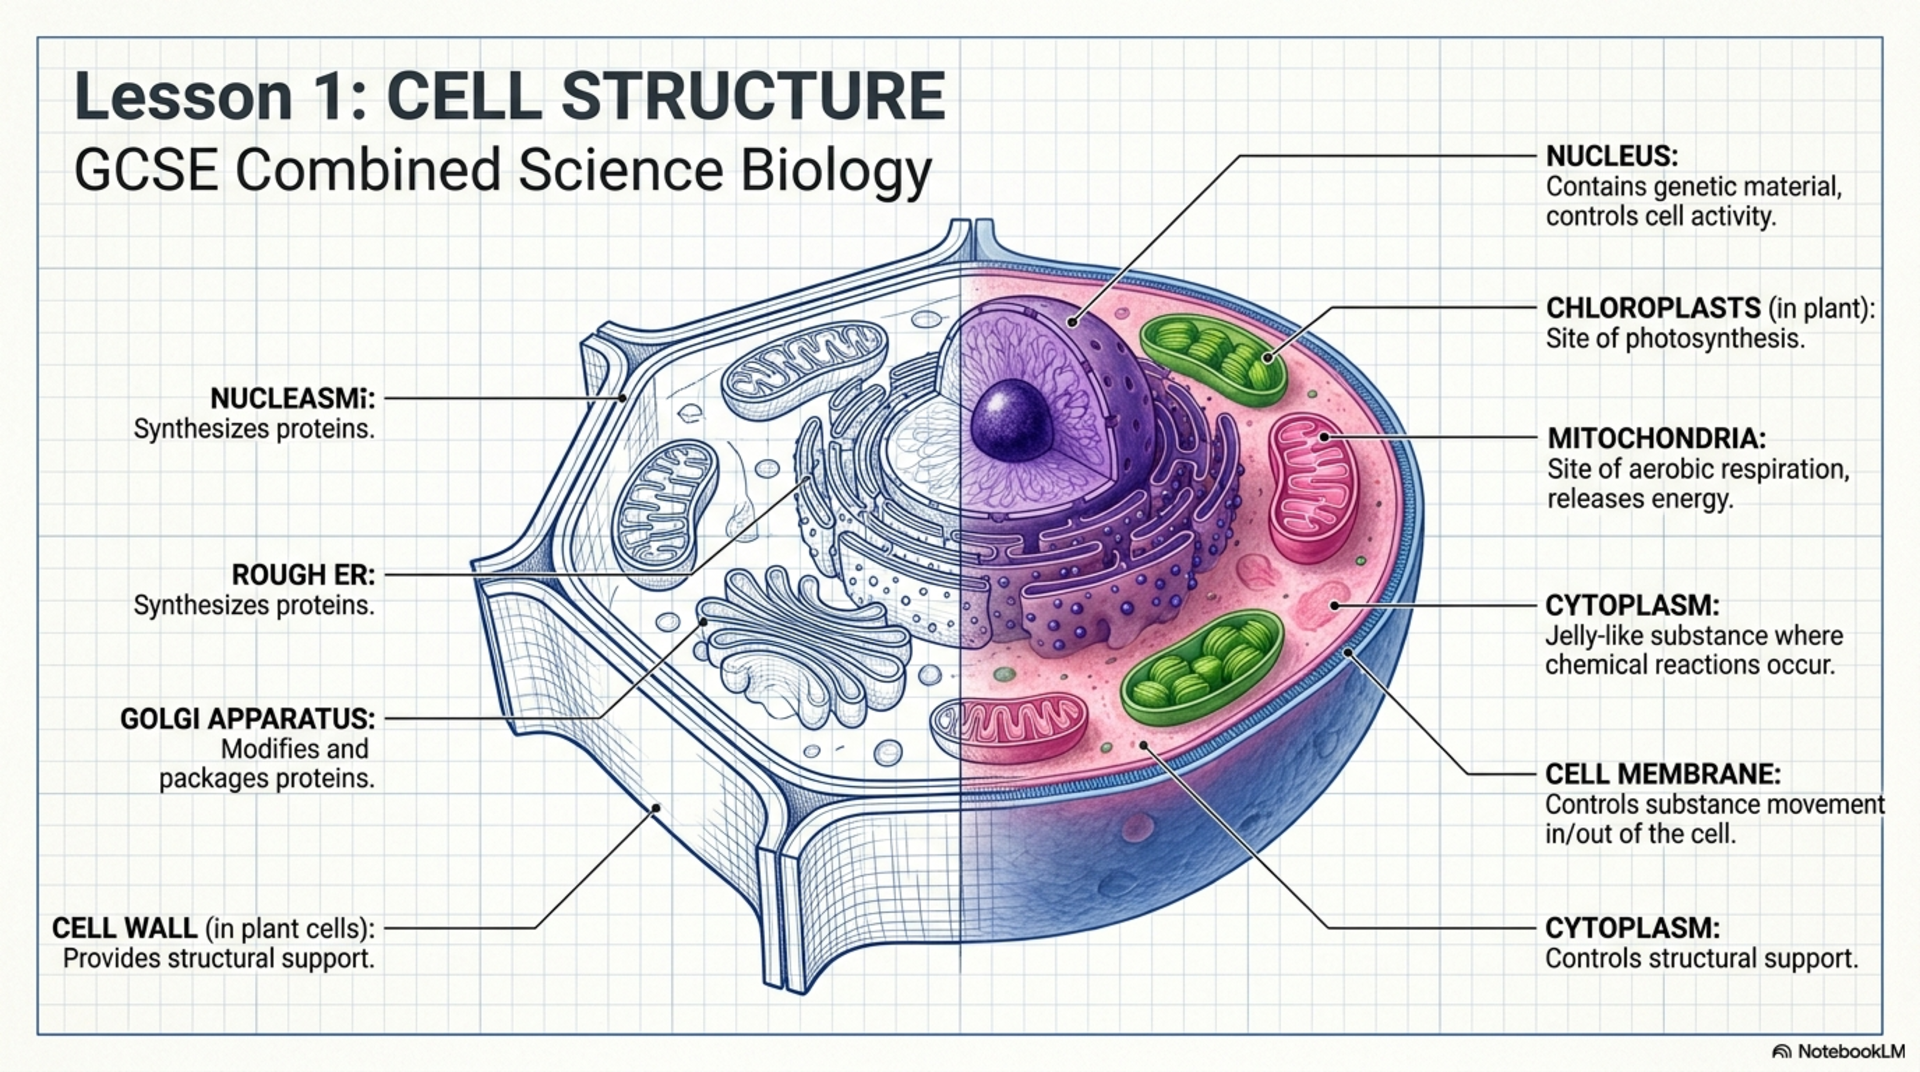
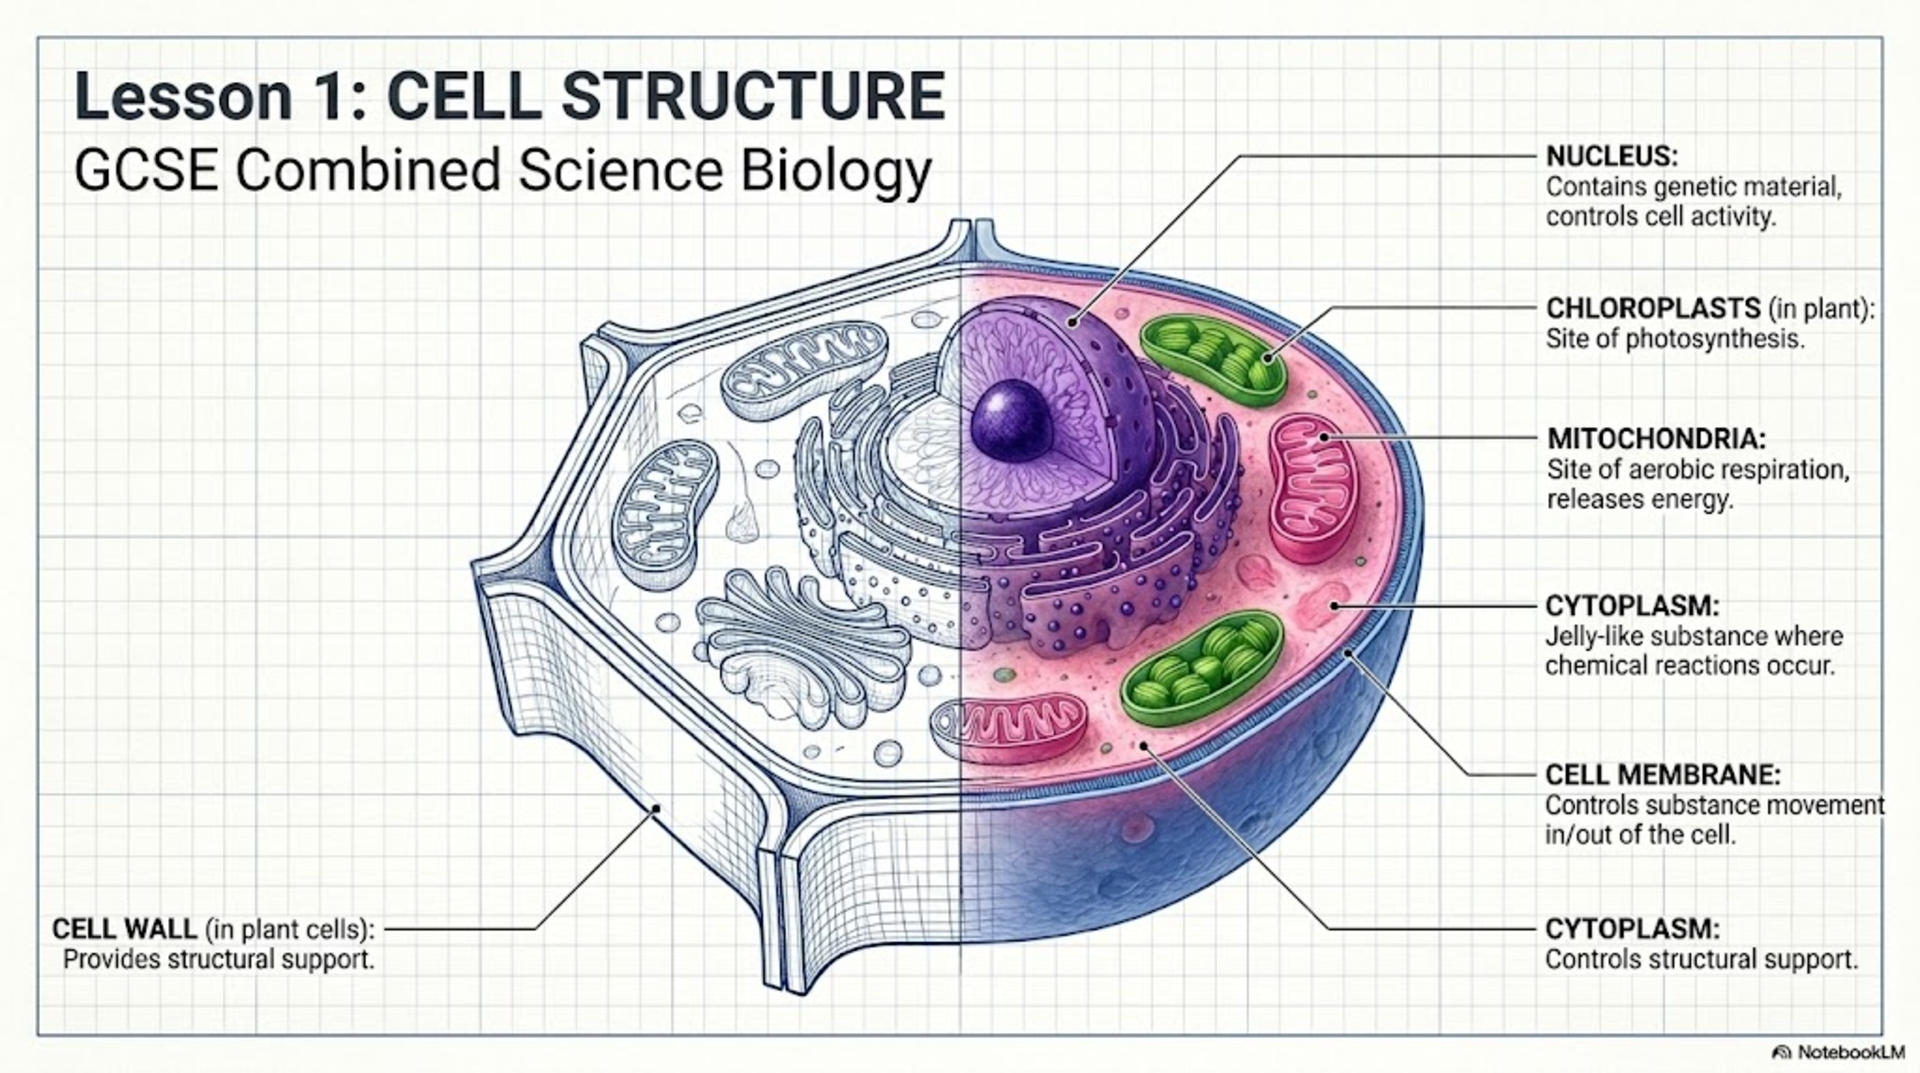
feat: update cell structure slide image and add Gemini navigation script Working!

diff --git a/scratch/navigate_gemini.js b/scratch/navigate_gemini.js
@@ -1,0 +1,16 @@
+import { chromium } from "playwright";
+
+async function main() {
+  const browser = await chromium.connectOverCDP("http://127.0.0.1:9333");
+  const context = browser.contexts()[0];
+  const page = context.pages()[0] || await context.newPage();
+
+  console.log("Navigating CDP browser tab to https://gemini.google.com/app...");
+  await page.goto("https://gemini.google.com/app");
+  console.log("Current page title:", await page.title());
+  console.log("Current URL:", page.url());
+
+  await browser.disconnect().catch(() => {});
+}
+
+main().catch(console.error);
